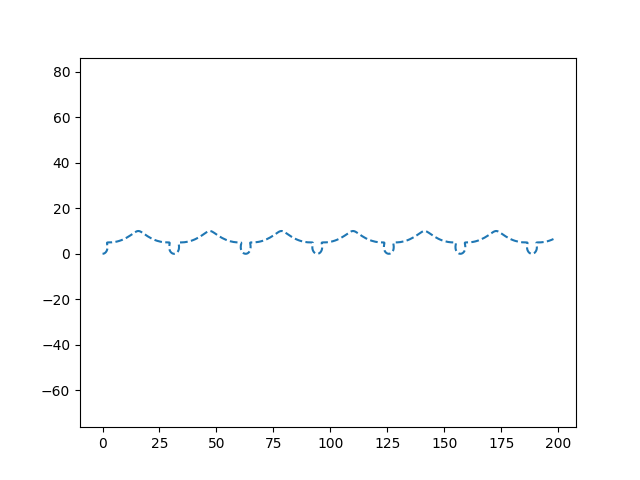
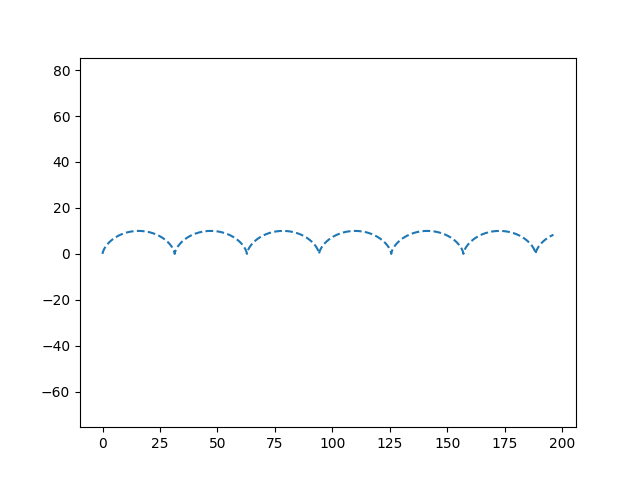
lab 7

diff --git a/lab_7_osn_task1.py b/lab_7_osn_task1.py
@@ -4,8 +4,8 @@ import numpy as np
 def cikloida(R, t_min, t_max):
     t = np.linspace(t_min, t_max, 500)
 
-    x = R * (t - np.sin(t)**3)
-    y = R * (1 - np.cos(t)**3)
+    x = R * (t - np.sin(t))
+    y = R * (1 - np.cos(t))
 
     plt.plot(x, y, ls='--')
     plt.axis('equal')
